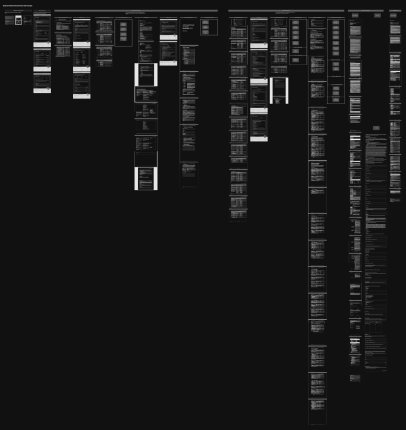
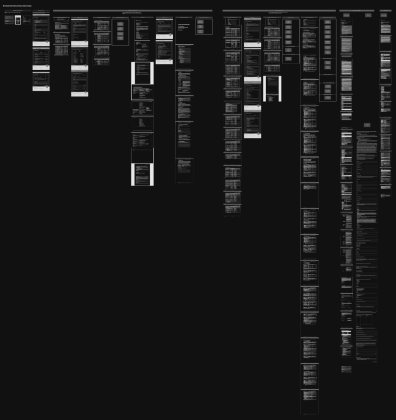
Approval portal case study: re-cropped original form and flow images from Figma

diff --git a/projects/government-approval-portal/index.html b/projects/government-approval-portal/index.html
@@ -168,7 +168,7 @@
   .caption { text-align: center; }
   /* The original form and the original flow, side by side */
   .before { display: flex; gap: 64px; align-items: flex-start; }
-  .before .shot:first-child { flex: none; width: 203px; }
+  .before .shot:first-child { flex: none; width: 198px; }
   .before .shot:last-child { flex: 1; min-width: 0; }
   @supports (corner-shape: squircle) {
     .shot img { border-radius: 24px; corner-shape: squircle; }
@@ -183,7 +183,7 @@
     .case { gap: 80px; }
     .intro { gap: 40px; }
     .before { flex-direction: column; gap: 40px; }
-    .before .shot:first-child { width: 203px; max-width: 100%; }
+    .before .shot:first-child { width: 198px; max-width: 100%; }
     .before .shot:first-child .caption { text-align: left; }
   }
 </style>
@@ -220,11 +220,11 @@
 
       <div class="before">
         <figure class="shot">
-          <img src="assets/original-form.jpg" width="406" height="430" alt="Pages of the original paper application form">
+          <img src="assets/original-form.jpg" width="396" height="420" alt="Pages of the original paper application form">
           <figcaption class="caption">Original application form (Phase 1 of 4, 56 pages).</figcaption>
         </figure>
         <figure class="shot">
-          <img src="assets/original-flow.jpg" width="1628" height="430" alt="The original approval flow across eight levels of support">
+          <img src="assets/original-flow.jpg" width="1648" height="424" alt="The original approval flow across eight levels of support">
           <figcaption class="caption">Original approval flow with 8 levels of support for different departments and third-parties handling parts of the approval process. The whole process took 12 months.</figcaption>
         </figure>
       </div>
